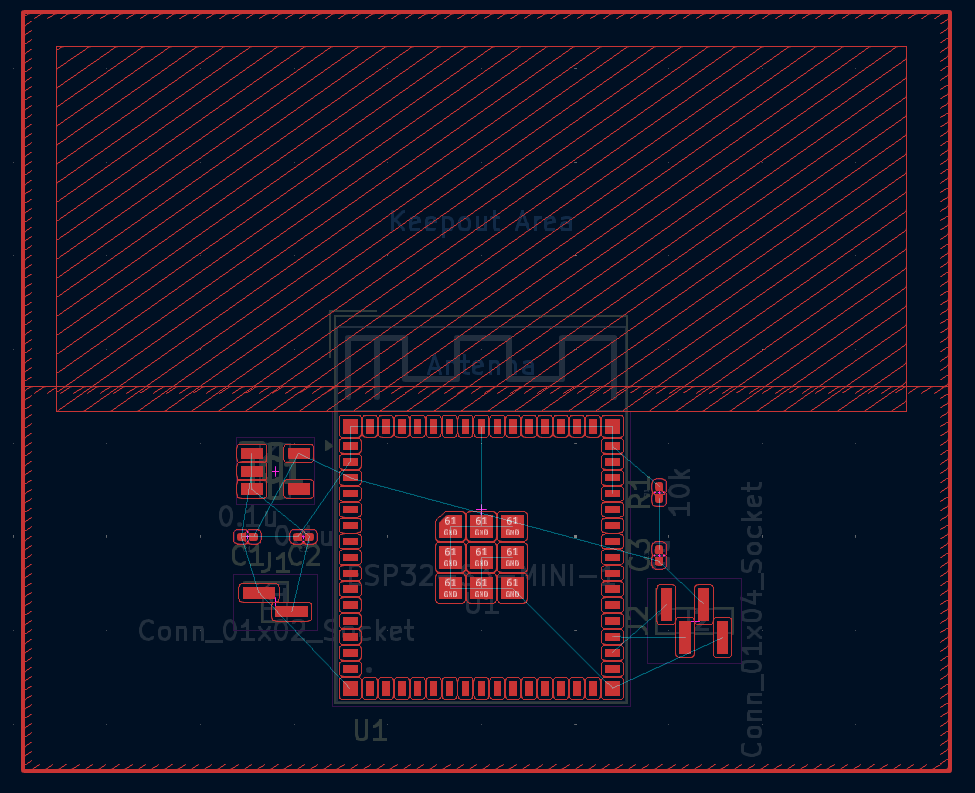
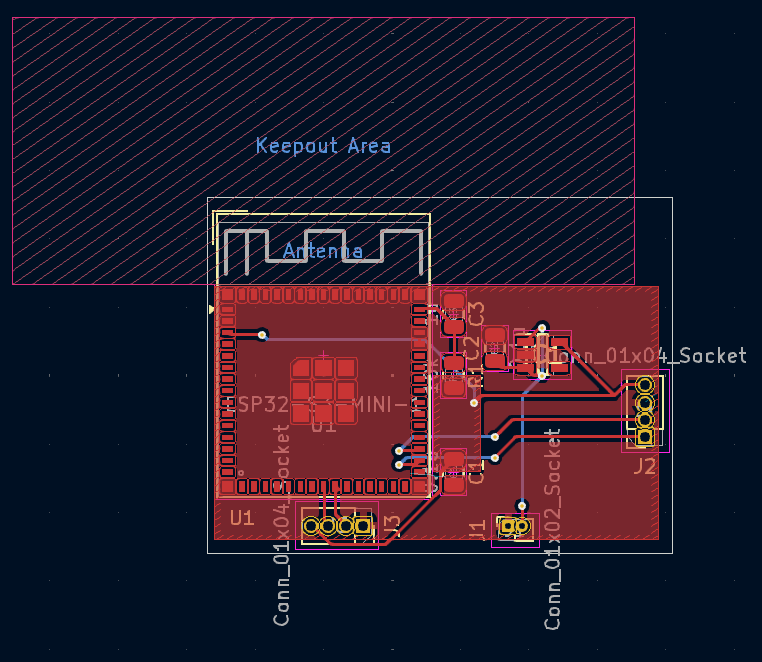
Revised Layout and Submission and zipped Gerber file

diff --git a/CHANGELOG.md b/CHANGELOG.md
@@ -1,16 +1,16 @@
 # CHANGELOG
 
-## April 30th, 2024
+## May 3rd, 2024
 ### Contributors
 Garno Amirian
 Aidan Garamendi
 Bao Thy Nguyen
 
 ### Added
-Layout in pcb editor view of revised schematic
+Zipped Gerber file
 
 ### Changed
-Schematic to fit revisions given by peer evaluation. More pins added for output, additional safety measures added in ESP32 as specified by datasheet.
+Schematic and layout to fit revisions given by ta evaluation. Added usb port and revised RC circuit for enable pin safety. Layout recieved nets and paths to fully connect pins and edgecut. 
 
 ### Removed
 N/A
